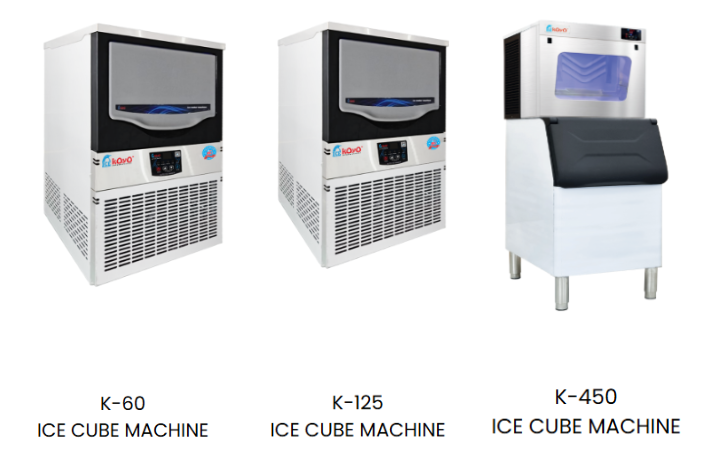
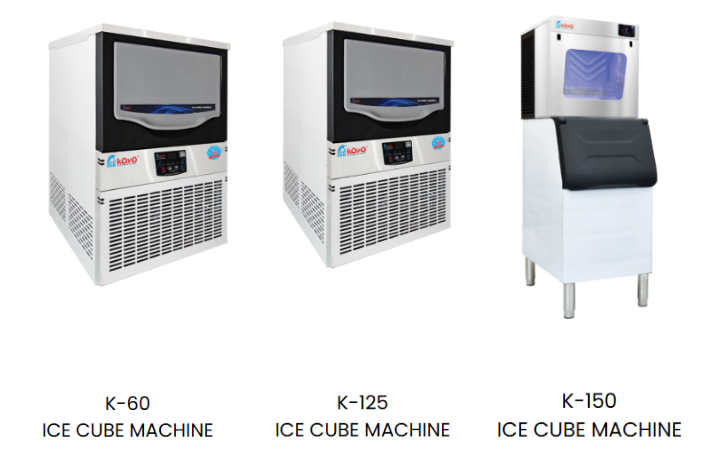
Add files via upload

diff --git a/index.html b/index.html
@@ -39,9 +39,9 @@
         }
 
         h1 {
-            font-size: 28px;
+            font-size: 26px;
             font-weight: 800;
-            line-height: 1.3;
+            line-height: 1.4;
             color: #1a202c;
             margin-bottom: 20px;
         }
@@ -78,6 +78,7 @@
         li {
             font-size: 16px;
             margin-bottom: 10px;
+            text-align: justify;
         }
 
         /* Image Formatting */
@@ -121,7 +122,7 @@
 
     <div class="article-container">
         <!-- Main Article Header -->
-        <h1>Shaping <span class="seo-keyword">Food Business Innovations Malaysia</span>: Experience the <span class="seo-keyword">Koyo Ice Maker Machine</span> at <span class="seo-keyword">MIFB 2026 KLCC(Malaysia International Food & Beverage) </span></h1>
+        <h1>Driving Success in the <span class="seo-keyword">F&B Industry Malaysia</span>: Experience the <span class="seo-keyword">Koyo Ice Maker Machine</span> at the <span class="seo-keyword">Malaysian International Food & Beverage Trade Fair (MIFB) 2026 at KLCC</span></h1>
         
         <div class="subtitle">
             Discover the next generation of <span class="seo-keyword">Commercial Ice Machine Malaysia</span> technology featuring smart, <span class="seo-keyword">Eco-friendly ice making solutions</span>.
@@ -134,13 +135,13 @@
         </div>
 
         <!-- Paragraph 1 -->
-        <p>As the local culinary landscape rapidly expands, staying ahead of the competition requires adopting the latest <span class="seo-keyword">food business innovations Malaysia</span> has to offer. For restaurant owners, café entrepreneurs, and hotel operators, one trade event stands out on this year’s calendar: <span class="seo-keyword">MIFB 2026 KLCC</span>. Taking place from July 15 to July 17 at the Kuala Lumpur Convention Centre, this premier B2B platform serves as the ultimate launchpad for cutting-edge hospitality tech. A major highlight of the event will be the showcase of the <span class="seo-keyword">Koyo Ice Maker Machine</span>, an essential tool for businesses looking to upgrade their daily beverage operations.</p>
+        <p>As the local culinary landscape rapidly expands, staying ahead of the competition requires adapting to high-demand search patterns and shifting modern demands across the <span class="seo-keyword">F&B Industry Malaysia</span>. For restaurant owners, café entrepreneurs, and hotel operators, one trade event stands out on this year’s calendar: the <span class="seo-keyword">Malaysian International Food & Beverage Trade Fair (MIFB) 2026 at KLCC</span>. Taking place from July 15 to July 17 at the Kuala Lumpur Convention Centre, this premier B2B platform serves as the ultimate launchpad for cutting-edge hospitality tech. A major highlight of the event will be the showcase of the <span class="seo-keyword">Koyo Ice Maker Machine</span>, an essential tool for businesses looking to upgrade their daily beverage operations.</p>
 
         <!-- Heading 2 -->
         <h2>Driving Efficiency in the <span class="seo-keyword">Commercial Ice Machine Malaysia</span> Market</h2>
 
         <!-- Paragraph 2 -->
-        <p>In a tropical climate like Malaysia, high-quality ice is not a luxury—it is a non-negotiable operational necessity. Navigating the highly competitive <span class="seo-keyword">commercial ice machine Malaysia</span> market can be daunting, but Koyo Corporate has consistently set the benchmark for reliability. Whether you run a bustling boba tea franchise or a specialty coffee shop, choosing a dependable <span class="seo-keyword">Koyo Ice Maker Machine</span> ensures your business never runs short during peak operational hours. At <span class="seo-keyword">MIFB 2026 KLCC</span>, attendees will get a first-hand look at how these machines optimize smart kitchen workflows.</p>
+        <p>In a tropical climate like Malaysia, high-quality ice is not a luxury—it is a non-negotiable operational necessity. Navigating the highly competitive <span class="seo-keyword">commercial ice machine Malaysia</span> market can be daunting, but Koyo Corporate has consistently set the benchmark for reliability. Whether you run a bustling boba tea franchise or a specialty coffee shop, choosing a dependable <span class="seo-keyword">Koyo Ice Maker Machine</span> ensures your business never runs short during peak operational hours. At the <span class="seo-keyword">Malaysian International Food & Beverage Trade Fair (MIFB) 2026 at KLCC</span>, attendees will get a first-hand look at how these machines optimize smart kitchen workflows.</p>
 
         <!-- Image 2 -->
         <div class="image-wrapper">
@@ -150,40 +151,36 @@
 
         <!-- Section 3: Koyo Machine Lineup Showcase -->
         <h2>Exploring the Featured Lineup of the <span class="seo-keyword">Koyo Ice Maker Machine</span></h2>
-        <p>To support different operational scales across the hospitality spectrum, Koyo offers models tailored to distinct daily quotas. Here are some of the popular setups business owners can evaluate:</p>
+        <p>To support different operational scales across the hospitality spectrum, choosing the right variant from the <span class="seo-keyword">commercial ice machine Malaysia</span> market is critical. Here is how each specific option in the <span class="seo-keyword">Koyo Ice Maker Machine</span> fleet matches the strict high-output expectations found across the professional <span class="seo-keyword">F&B Industry Malaysia</span>:</p>
 
-        <!-- Section 3: Koyo Machine Lineup Showcase (FIXED KEYWORDS) -->
-<h2>Exploring the Featured Lineup of the <span class="seo-keyword">Koyo Ice Maker Machine</span></h2>
-<p>To support different operational scales across the hospitality spectrum, choosing the right variant from the <span class="seo-keyword">commercial ice machine Malaysia</span> market is critical. Here is how each specific option in the <span class="seo-keyword">Koyo Ice Maker Machine</span> fleet serves as one of the standout <span class="seo-keyword">food business innovations Malaysia</span> has to offer:</p>
+        <!-- Image 3 -->
+        <div class="image-wrapper">
+            <img src="C:\Users\afiqw\OneDrive\Desktop\KOYO CORPORATE (INTERN)\koyo ice maker machine model.png" alt="Koyo Ice Maker Machine Lineup Showcase">
+            <div class="image-caption">Koyo's versatile commercial ice units range from compact under-counter modules to high-capacity tier systems.</div>
+        </div>
 
-<!-- Image 3 -->
-<div class="image-wrapper">
-    <img src="koyo ice maker machine model.png" alt="Koyo Ice Maker Machine Lineup Showcase">
-    <div class="image-caption">Koyo's versatile commercial ice units range from compact under-counter modules to high-capacity tier systems.</div>
-</div>
+        <ul>
+            <li><strong>KOYO-60 (60kg Daily Capacity):</strong> Built for compact spaces, cozy boutique cafes, and small beverage kiosks. It delivers quick ice harvesting cycles while operating as one of the most efficient, <span class="seo-keyword">eco-friendly ice making solutions</span> for small-footprint kitchens.</li>
+            <li><strong>KOYO-125 (125kg Daily Capacity):</strong> The crowd-favorite mid-tier model. This variant is highly sought-after across the <span class="seo-keyword">commercial ice machine Malaysia</span> sector for high-volume bubble tea outlets and local restaurants that need consistent cube accumulation to withstand heavy lunch rushes.</li>
+            <li><strong>KOYO-150 (150kg Daily Capacity):</strong> A robust, high-performance unit that you can see live at the <span class="seo-keyword">Malaysian International Food & Beverage Trade Fair (MIFB) 2026 at KLCC</span>. It is expertly designed for larger seafood restaurants, busy hotpot chains, and high-traffic fast-food outlets needing substantial ice yields without demanding industrial kitchen space.</li>
+        </ul>
 
-<ul>
-    <li><strong>KOYO-60 (60kg Daily Capacity):</strong> Built for compact spaces, cozy boutique cafes, and small beverage kiosks. It delivers quick ice harvesting cycles while operating as one of the most efficient, <span class="seo-keyword">eco-friendly ice making solutions</span> for small-footprint kitchens.</li>
-    <li><strong>KOYO-125 (125kg Daily Capacity):</strong> The crowd-favorite mid-tier model. This variant is highly sought-after across the <span class="seo-keyword">commercial ice machine Malaysia</span> sector for high-volume bubble tea outlets and local restaurants that need consistent cube accumulation to withstand heavy lunch rushes.</li>
-    <li><strong>KOYO-450 (450kg Daily Capacity):</strong> A heavy-duty workhorse that you can see live at <span class="seo-keyword">MIFB 2026 KLCC</span>. It is designed for large-scale franchises, manufacturing environments, and hotel banquet operations needing massive, round-the-clock ice volumes.</li>
-</ul>
-
-        <!-- Heading 3 -->
+        <!-- Heading 4 -->
         <h2>Embracing <span class="seo-keyword">Eco-Friendly Ice Making Solutions</span></h2>
 
         <!-- Paragraph 3 -->
-        <p>Modern consumers are increasingly eco-conscious, prompting a massive shift toward sustainable restaurant operations. This is exactly where <span class="seo-keyword">eco-friendly ice making solutions</span> become essential to the narrative of <span class="seo-keyword">food business innovations Malaysia</span>. Koyo’s latest lineup introduces advanced utility-saving modules that drastically reduce water waste and electricity consumption. By integrating these <span class="seo-keyword">eco-friendly ice making solutions</span> into your commercial kitchen, you don't just lower your monthly utility bills—you also elevate your brand’s green credentials.</p>
+        <p>Modern consumers are increasingly eco-conscious, prompting a massive shift toward sustainable restaurant operations. This is exactly where tracking modern utility demands becomes essential to succeeding within the broader <span class="seo-keyword">F&B Industry Malaysia</span>. Koyo’s latest lineup introduces advanced utility-saving modules that drastically reduce water waste and electricity consumption. By integrating these <span class="seo-keyword">eco-friendly ice making solutions</span> into your commercial kitchen, you don't just lower your monthly utility bills—you also elevate your brand’s green credentials.</p>
 
         <!-- Quote Box -->
         <blockquote>
-            <p><strong>Industry Note:</strong> With MIFB 2026 officially hosting the Malaysia National Coffee Championship (MNCC) this year, the demand for pure, temperature-precise ice is higher than ever. Selecting the right ice shape and clarity can directly alter the taste profile of specialty iced brews.</p>
+            <p><strong>Industry Note:</strong> With the main trade show floor officially hosting the Malaysia National Coffee Championship (MNCC) this year, the demand for pure, temperature-precise ice is higher than ever. Selecting the right ice shape and clarity can directly alter the taste profile of specialty iced brews.</p>
         </blockquote>
 
-        <!-- Heading 4 / Conclusion -->
-        <h2>Conclusion: See You at <span class="seo-keyword">MIFB 2026 KLCC</span></h2>
+        <!-- Heading 5 / Conclusion -->
+        <h2>Conclusion: See You at the <span class="seo-keyword">Malaysian International Food & Beverage Trade Fair (MIFB) 2026 at KLCC</span></h2>
 
         <!-- Paragraph 4 -->
-        <p>To truly understand how a premium <span class="seo-keyword">commercial ice machine Malaysia</span> can transform your daily bottom line, visiting the trade show floor is a must. Don't miss the opportunity to witness the power, hygiene, and ice-shaping efficiency of the <span class="seo-keyword">Koyo Ice Maker Machine</span> in person. Make sure to mark your calendar for <span class="seo-keyword">MIFB 2026 KLCC</span> and take the first step toward future-proofing your business with the best <span class="seo-keyword">food business innovations Malaysia</span> has to offer.</p>
+        <p>To truly understand how a premium <span class="seo-keyword">commercial ice machine Malaysia</span> can transform your daily bottom line, visiting the trade show floor is a must. Don't miss the opportunity to witness the power, hygiene, and ice-shaping efficiency of the <span class="seo-keyword">Koyo Ice Maker Machine</span> in person. Make sure to mark your calendar for the <span class="seo-keyword">Malaysian International Food & Beverage Trade Fair (MIFB) 2026 at KLCC</span> and take the first step toward future-proofing your business operations within the <span class="seo-keyword">F&B Industry Malaysia</span>.</p>
     </div>
 
 </body>